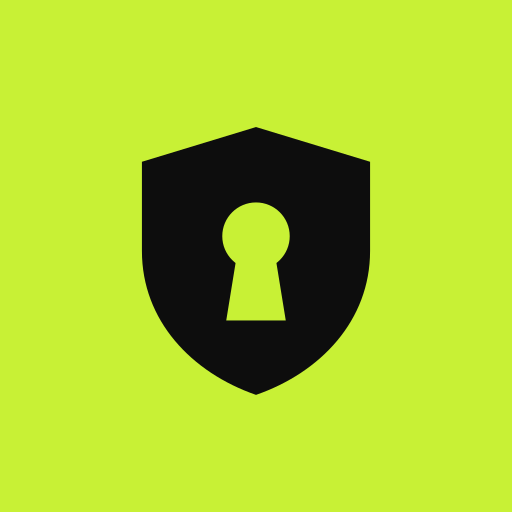
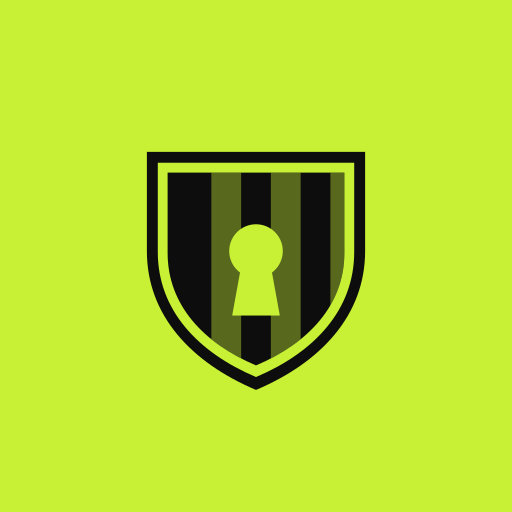
Settle the badge: stripes, keyline, five colourways
The crest gains the two things that make a real club badge read as one
at icon size: a keyline inside the edge, and three bold shirt stripes
running the full height behind the keyhole. Everything finer than that —
double borders, seven stripes, stars, a scroll — turns to grey mush by
26px, which is where this mark actually lives.

The stripes are the ground bled back at 40% rather than solid: at full
strength they are the same value as the keyhole and swallow it.

Five colourways of one badge, shapes identical throughout so they read
as the same mark however they are painted. lime is the app icon; ink is
what the header wears, having more presence against the page than
another lime square; pink, hot and blue are there for a division or a
league to wear.

Also drops the peaked-top shield that shipped last time. A point on top
of a shield with a keyhole in it is an antivirus logo, which is the one
thing this must not look like.

Changed region(s): [[0.25, 0.25, 0.75, 0.7812]]

diff --git a/src/components/Mark.tsx b/src/components/Mark.tsx
@@ -1,17 +1,68 @@
 /**
- * The brand mark: a club crest with a keyhole cut out of it.
+ * The brand mark: a club badge with three shirt stripes and a keyhole.
  *
  * Not `LockIcon`, which is the functional glyph on Lock in buttons and
- * takes `currentColor`. This one carries its own lime ground, because
- * the crest is ink and the keyhole is the ground showing through — put
- * it on a white header without the tile and the keyhole fills in.
+ * takes `currentColor`. This one carries its own tile, because the
+ * keyline, the stripes and the keyhole are all the ground showing
+ * through the badge — drop the tile and they fill in solid.
  *
- * The same paths are in `scripts/build-icons.mjs`, which cuts the
- * favicon, the home-screen icons and the notification badge. Change one
- * and run that, or the thing on the home screen stops being the thing in
- * the header.
+ * One badge, five colourways. The shapes never change, so they read as
+ * the same mark however they are painted: `lime` is the app icon, the
+ * one on a home screen; `ink` is what the header wears, where a dark
+ * tile has more presence against the page than another lime square
+ * would; the rest are there to be used, not decoration for its own sake
+ * — a division, a league, a season can each wear one.
+ *
+ * The `lime` shapes are also in `scripts/build-icons.mjs`, which cuts
+ * the favicon, the home-screen icons and the notification badge. Change
+ * one and run that, or the thing on the home screen stops being the
+ * thing in the header.
  */
-export function Mark({ className = 'h-7 w-7' }: { className?: string }) {
+const INK = '#0d0d0d';
+const LIME = '#c8f135';
+const HOT = '#ff2d87';
+const HOT_DARK = '#e51e73';
+const BLUE = '#3b82f6';
+const BLUE_DARK = '#2563eb';
+
+const CREST = 'M10 11 H54 V31 C54 44 45 53.5 32 59 C19 53.5 10 44 10 31 Z';
+const KEYLINE = 0.9;
+const FIELD = 0.81;
+
+/**
+ * A stripe is either the ground bled back through the badge, or a
+ * darker shade of the badge itself — whichever keeps it under the
+ * keyhole rather than competing with it.
+ */
+type Tone = {
+  ground: string;
+  badge: string;
+  stripe: string;
+  stripeOpacity: number;
+};
+
+const TONES: Record<string, Tone> = {
+  lime: { ground: LIME, badge: INK, stripe: LIME, stripeOpacity: 0.4 },
+  ink: { ground: INK, badge: LIME, stripe: INK, stripeOpacity: 0.22 },
+  pink: { ground: LIME, badge: HOT, stripe: HOT_DARK, stripeOpacity: 1 },
+  hot: { ground: HOT, badge: INK, stripe: HOT, stripeOpacity: 0.4 },
+  blue: { ground: LIME, badge: BLUE, stripe: BLUE_DARK, stripeOpacity: 1 },
+};
+
+export type MarkTone = keyof typeof TONES;
+
+const about = (k: number) => `translate(32 33) scale(${k}) translate(-32 -33)`;
+
+export function Mark({
+  className = 'h-7 w-7',
+  tone = 'lime',
+}: {
+  className?: string;
+  tone?: MarkTone;
+}) {
+  const { ground, badge, stripe, stripeOpacity } = TONES[tone];
+  const clip = `lyp-field-${tone}`;
+
   return (
     <svg
       viewBox="0 0 64 64"
@@ -19,13 +70,24 @@ export function Mark({ className = 'h-7 w-7' }: { className?: string }) {
       role="img"
       aria-label="Lock Your Picks"
     >
-      <rect width="64" height="64" rx="14" fill="#c8f135" />
-      <path
-        d="M32 6 L55 13 V31 C55 45 45 55.5 32 60 C19 55.5 9 45 9 31 V13 Z"
-        fill="#0d0d0d"
-      />
-      <circle cx="32" cy="28" r="6.8" fill="#c8f135" />
-      <path d="M27.9 33.3 L36.1 33.3 L38 45 L26 45 Z" fill="#c8f135" />
+      <rect width="64" height="64" rx="14" fill={ground} />
+      <path d={CREST} fill={badge} />
+      <path d={CREST} fill={ground} transform={about(KEYLINE)} />
+      <path d={CREST} fill={badge} transform={about(FIELD)} />
+
+      <defs>
+        <clipPath id={clip}>
+          <path d={CREST} transform={about(FIELD)} />
+        </clipPath>
+      </defs>
+      <g clipPath={`url(#${clip})`} opacity={stripeOpacity}>
+        <rect x="23" y="0" width="6" height="64" fill={stripe} />
+        <rect x="35" y="0" width="6" height="64" fill={stripe} />
+        <rect x="47" y="0" width="6" height="64" fill={stripe} />
+      </g>
+
+      <circle cx="32" cy="31" r="5.4" fill={ground} />
+      <path d="M28.8 35.2 L35.2 35.2 L36.8 44 L27.2 44 Z" fill={ground} />
     </svg>
   );
 }

diff --git a/src/app/(app)/layout.tsx b/src/app/(app)/layout.tsx
@@ -81,7 +81,7 @@ export default async function AppLayout({
             href="/dashboard"
             className="flex shrink-0 items-center gap-2"
           >
-            <Mark className="h-7 w-7" />
+            <Mark tone="ink" className="h-7 w-7" />
             <span className="flex flex-col leading-none">
               <span className="font-display text-[9px] font-bold tracking-[0.2em] text-grey-500 uppercase">
                 Lock Your

diff --git a/src/app/auth/layout.tsx b/src/app/auth/layout.tsx
@@ -14,7 +14,7 @@ export default function AuthLayout({
           href="/"
           className="mb-8 flex items-center justify-center gap-2.5"
         >
-          <Mark className="h-9 w-9" />
+          <Mark tone="ink" className="h-9 w-9" />
           <span className="flex flex-col text-left leading-none">
             <span className="font-display text-[10px] font-bold tracking-[0.2em] text-grey-500 uppercase">
               Lock Your
